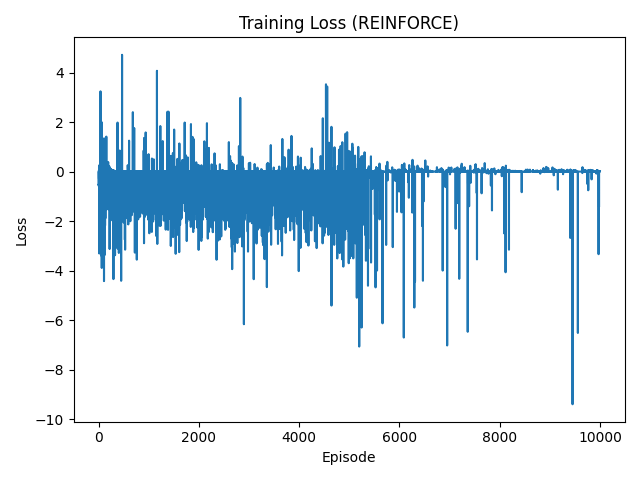
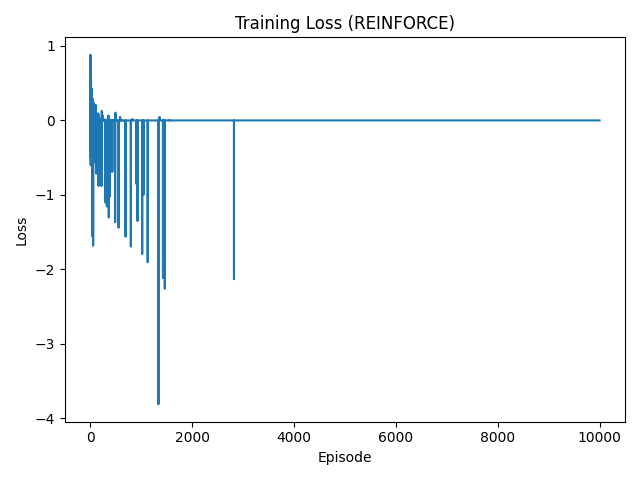
train update

diff --git a/Tictactoe_nn/train.py b/Tictactoe_nn/train.py
@@ -2,44 +2,71 @@ import argparse, json, random
 import torch, torch.optim as optim
 import matplotlib.pyplot as plt
 import os
-from core import PolicyNet, select_action, heuristic_move, check_winner
+from core import PolicyNet, select_action, heuristic_move, check_winner, WIN_LINES
 
 def legal_moves(board): return [i for i,v in enumerate(board) if v==0]
 
-def play_episode(policy, opponent='random', snapshot=None, epsilon=0.1):
-    board=[0]*9
-    player=1
-    log_probs=[]
+
+def has_two_in_row_threat(board, player):
+    for a,b,c in WIN_LINES:
+        line = [board[a], board[b], board[c]]
+        if line.count(player) == 2 and line.count(0) == 1:
+            return True
+    return False
+
+def opponent_can_win_next(board, player):
+    opp = -player
+    for m in legal_moves(board):
+        b2 = board[:]
+        b2[m] = opp
+        if check_winner(b2) == opp:
+            return True
+    return False
+
+def play_episode(policy, opponent='random', snapshot=None, epsilon=0.1, agent_player=1):
+    board = [0]*9; 
+    log_probs = []
+    shaped_total = 0.0
+    to_move = 1
     while True:
         term = check_winner(board)
         if term is not None:
-            reward = 1.0 if term==1 else (-1.0 if term==-1 else 0.0)
-            return reward, log_probs
-        if player==1:
-            a, logp = select_action(policy, board, player=1, epsilon=epsilon)
-            if a is None: 
-                return 0.0, log_probs
-            board[a]=1
-            if logp is not None: 
+            reward = 1.0 if term==agent_player else (-1.0 if term==-agent_player else 0.0)
+            # small penalty on losing terminal
+            if term == -agent_player:
+                shaped_total += -0.1
+            return reward, shaped_total, log_probs
+ 
+        if to_move == agent_player:
+            a, logp = select_action(policy, board, player=agent_player, epsilon=epsilon)
+            if a is None: return 0.0, log_probs
+            board[a] = agent_player
+            if logp is not None:
                 log_probs.append(logp)
+            # +0.2 if agent created a two-in-a-row threat
+            if has_two_in_row_threat(board, agent_player):
+                shaped_total += 0.2
+            # -0.2 if opponent now has an immediate winning reply
+            if opponent_can_win_next(board, agent_player):
+                shaped_total += -0.2
+            # +0.1 for staying alive (game not ended yet)
+            if check_winner(board) is None:
+                shaped_total += 0.1
         else:
             if opponent=='random':
                 moves = legal_moves(board)
                 a = None if not moves else random.choice(moves)
             elif opponent=='heuristic':
-                a = heuristic_move(board, player=-1)
-            elif opponent=='self':
-                a, _ = select_action(snapshot, board, player=-1, epsilon=0.0)
+                a = heuristic_move(board, player=to_move)
             else:
-                moves = legal_moves(board)
-                a = None if not moves else random.choice(moves)
-            if a is None: 
-                return 0.0, log_probs
-            board[a] = -1
-        player *= -1
+                a, _ = select_action(snapshot, board, player=to_move, epsilon=0.0)
+            if a is None: return 0.0, 0.0, log_probs
+            board[a] = to_move
+        to_move *= -1
 
-def train(episodes=2000, opponent='random', lr=1e-3, epsilon=0.1, snapshot_every=200, log_every=50, window=100, 
-          seed=0, out='ttt_model.pt'):
+
+def train(episodes=10000, opponent='random', lr=1e-3, epsilon=1.0,
+          snapshot_every=200, log_every=200, window=200, seed=0, out='ttt_model.pt'):
     random.seed(seed)
     torch.manual_seed(seed)
     policy = PolicyNet()
@@ -50,61 +77,63 @@ def train(episodes=2000, opponent='random', lr=1e-3, epsilon=0.1, snapshot_every
         except Exception as e:
             print(json.dumps({"resume_failed": str(e)}))
     opt = optim.Adam(policy.parameters(), lr=lr)
-    baseline=0.0
-    beta=0.99
+
+    baseline = {1: 0.0, -1: 0.0}
+    beta = 0.9
+
     snapshot = PolicyNet()
     snapshot.load_state_dict(policy.state_dict())
     snapshot.eval()
-    losses=[]
-    rewards=[]
+
+    losses, rewards = [], []
     for ep in range(1, episodes+1):
-        if opponent=='self' and ep % snapshot_every == 1 and ep>1:
+        if opponent=='self' and ep % snapshot_every == 1 and ep > 1:
             snapshot.load_state_dict(policy.state_dict())
             snapshot.eval()
 
-        if opponent == 'self':
-            opp_now = 'self' if random.random() < 0.7 else 'heuristic'
-        else:
-            opp_now = opponent
-
-        # ε-decay: explore early, exploit later
-        min_eps = 0.02
+        # ε-decay: start random (high temp), cool down
+        min_eps = 0.1
         eps_now = max(min_eps, epsilon * (1.0 - ep / episodes))
+        agent_player = 1 if random.random() < 0.5 else -1
 
-        r, logs = play_episode(policy, opponent=opp_now, snapshot=snapshot, epsilon=eps_now)
+        r_raw, r_shaped, logs = play_episode(policy, opponent=opponent, snapshot=snapshot,
+                               epsilon=eps_now, agent_player=agent_player)
 
-        # moving-average baseline
-        baseline = beta * baseline + (1 - beta) * r
-        adv = r - baseline
+        # Use shaped reward for learning signal
+        baseline[agent_player] = beta * baseline[agent_player] + (1 - beta) * r_shaped
+        adv = r_shaped - baseline[agent_player]
 
         if logs:
             loss = -torch.stack(logs).sum() * adv
             opt.zero_grad()
             loss.backward()
-            # prevent rare gradient explosions
             torch.nn.utils.clip_grad_norm_(policy.parameters(), 1.0)
             opt.step()
         else:
             loss = torch.tensor(0.0)
+
         losses.append(loss.item())
-        rewards.append(r)
-        recent = rewards[-window:]
-        winrate = sum(1 for x in recent if x > 0) / max(1, len(recent))
+        # Keep raw outcomes for accurate draw-rate reporting
+        rewards.append(r_raw)
 
         if ep % log_every == 0 or ep == 1:
+            recent = rewards[-window:]
+            draw_rate = sum(1 for x in recent if x == 0) / max(1, len(recent))
             print(json.dumps({
                 "episode": ep,
                 "loss": float(loss.item()),
-                "winrate": winrate
+                "draw_rate": draw_rate
             }))
 
     torch.save(policy.state_dict(), out)
     print(json.dumps({'out': out, 'episodes': episodes}))
+                     
 
-    wr_list = []
+    # optimal game finishes with a draw
+    draw_list = []
     for i in range(episodes):
         sub = rewards[max(0, i-window+1):i+1]
-        wr_list.append(sum(1 for x in sub if x>0)/max(1,len(sub)))
+        draw_list.append(sum(1 for x in sub if x==0)/max(1,len(sub)))
 
     plt.figure()
     plt.plot(losses)
@@ -114,19 +143,19 @@ def train(episodes=2000, opponent='random', lr=1e-3, epsilon=0.1, snapshot_every
     plt.close()
 
     plt.figure()
-    plt.plot(wr_list)
-    plt.title(f"Rolling Win Rate (window={window})")
-    plt.xlabel("Episode"); plt.ylabel("Win Rate"); plt.tight_layout()
-    plt.savefig("winrate_curve.png")
+    plt.plot(draw_list)
+    plt.title(f"Rolling Draw Rate (window={window})")
+    plt.xlabel("Episode"); plt.ylabel("Draw Rate"); plt.tight_layout()
+    plt.savefig("drawrate_curve.png")
     plt.close()
 
 
 if __name__ == '__main__':
     p=argparse.ArgumentParser()
-    p.add_argument('--episodes', type=int, default=2000)
-    p.add_argument('--opponent', choices=['random','heuristic','self'], default='random')
+    p.add_argument('--episodes', type=int, default=10000)
+    p.add_argument('--opponent', choices=['random','heuristic','self'], default='self')
     p.add_argument('--lr', type=float, default=1e-3)
-    p.add_argument('--epsilon', type=float, default=0.1)
+    p.add_argument('--epsilon', type=float, default=1)
     p.add_argument('--snapshot_every', type=int, default=200)
     p.add_argument('--log_every', type=int, default=50)
     p.add_argument('--window', type=int, default=100)

diff --git a/Tictactoe_nn/core.py b/Tictactoe_nn/core.py
@@ -49,12 +49,10 @@ def heuristic_move(board, player):
     return random.choice(moves) if moves else None
 
 class PolicyNet(nn.Module):
-    def __init__(self, in_dim=18, hidden=64, out_dim=9):
+    def __init__(self, in_dim=18, hidden=32, out_dim=9):
         super().__init__()
         self.net = nn.Sequential(
             nn.Linear(in_dim, hidden),
-            nn.ReLU(),
-            nn.Linear(hidden, hidden),
             nn.ReLU(),
             nn.Linear(hidden, out_dim),
         )
@@ -68,15 +66,9 @@ def select_action(policy, board, player, epsilon=0.0):
     mask = torch.tensor([0.0 if v==0 else -1e9 for v in b], dtype=torch.float32)
     masked_logits = logits + mask
     
-    # ε-random exploration, don't backpropagate it.
-    if epsilon > 0.0 and random.random() < epsilon:
-        moves = [i for i, v in enumerate(b) if v == 0]
-        if not moves: 
-            return None, None
-        a = random.choice(moves)
-        return a, None  # <-- DO NOT reinforce random picks
-
-    probs = torch.softmax(masked_logits, dim=-1)
+    # higher epsilon = more random
+    factor = max(0.1, epsilon)
+    probs = torch.softmax(masked_logits / factor, dim=-1)
 
     if epsilon == 0.0:
         # evaluation/GUI
